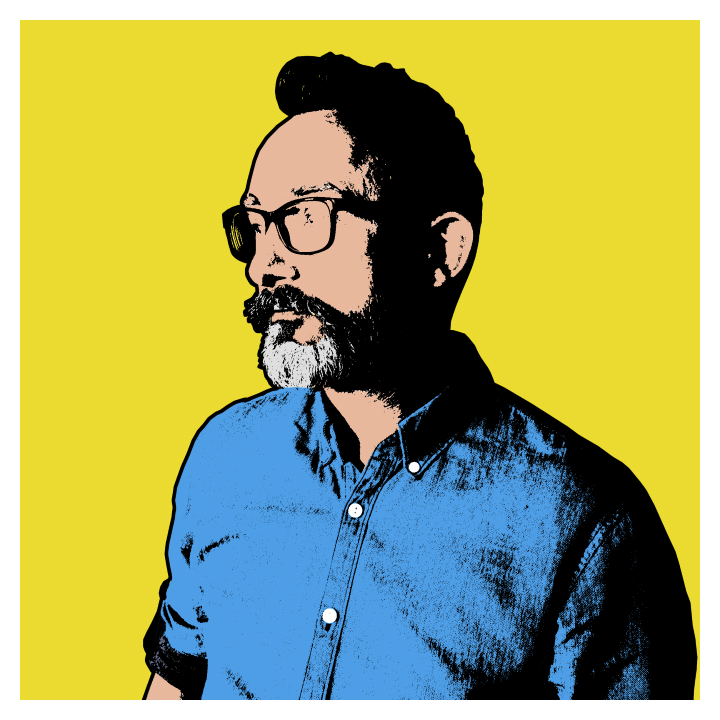
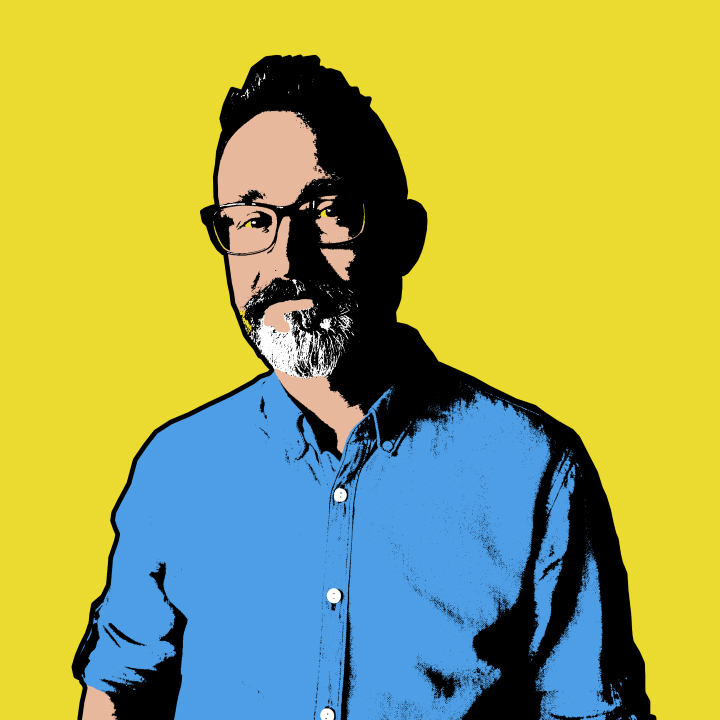
Updated hero images.

diff --git a/index.html b/index.html
@@ -47,8 +47,8 @@
                 <a class="nav-link" href="work.html">Work.</a>
               </li>
             </ul>
-            <div class="col-sm-6 col-md-6 col-lg-4 hero-image">
-              <img src="img/hero/hero-img-1.jpg" alt="Illustration of Steven Dow" class="img-fluid">
+            <div class="col-sm-6 col-md-6 col-lg-4 padding-bottom">
+              <img src="img/hero/hero-img-1.jpg" alt="Illustration of Steven Dow" class="img-fluid hero-image">
             </div>
           </div>
         </div>
@@ -85,12 +85,23 @@
               <img src="img/hero/hero-img-1.jpg" alt="portrait 3" class="img-fluid ">
             </div>
           </div>
+<<<<<<< Updated upstream
+=======
+<<<<<<< HEAD
+          <div class="card">
+            <img src="img/hero/hero-img-3.jpg" alt="portrait 3" class="img-fluid ">
+=======
+>>>>>>> Stashed changes
           <div class="row justify-content-end">
             <div class="col col-sm-9 col-md-8 col-lg-6">
               <p>
                 I make sure my concepts and design solutions are well thought through, and based on thorough research. I'm a good listener, and I'm strong at aligning with stakeholders.
               </p>
             </div>
+<<<<<<< Updated upstream
+=======
+>>>>>>> 6542ae0a9f723cb4078d75b2d4030f03edc8b2c3
+>>>>>>> Stashed changes
           </div>
         </div>
       </section>
@@ -192,6 +203,12 @@
             </div>
             <div class="col-6 col-md-4 col-lg-3">
               <img src="img/featured-awards/featured-awards-4.jpg" alt="featured logo 2" class="img-fluid py-3" >
+<<<<<<< Updated upstream
+=======
+            </div>
+            <div class="col-6 col-md-4 col-lg-3">
+              <img src="img/featured-awards/featured-awards-5.jpg" alt="featured logo 3" class="img-fluid py-3">
+>>>>>>> Stashed changes
             </div>
             <div class="col-6 col-md-4 col-lg-3">
               <img src="img/featured-awards/featured-awards-5.jpg" alt="featured logo 3" class="img-fluid py-3">
@@ -251,6 +268,62 @@
             </ul>
           </div>
         </div>
+<<<<<<< Updated upstream
+=======
+      </section>  
+      
+      <!-- Footer -->
+      <footer class="py-5">
+        <div class="container">
+          <div class=" row">
+            <h2 class="pb-3 display-4 font-weight-bold col-md-4">
+              Say<br>hello
+              <span class="text-red">.</span>
+            </h2>  
+            <ul class="col-md-4">
+              <li>
+                <a href="mailto: thefamousunknown@gmail.com?subject=Nice website&body=Hi Steven, Let's grab a coffee.">info@stevendow.nl</a>
+                <span class="sr-only">Opens mail application</span>
+              </li>
+              <li>
+                <a href="#">+31 (0)6 462 405 20</a>
+              </li>
+              <li>
+                <p>
+                  Waldenlaan 98<br>1093NH Amsterdam
+                </p>
+              </li>
+            </ul>
+            <ul class="col-md-4">
+              <li>
+                <a href="https://www.linkedin.com/in/stevendow/" target="_blank">LinkedIn</a>
+                <span class="sr-only">Opens in new window</span>
+              </li>
+              <li>
+                <a href="https://github.com/wodnevets/" target="_blank">Github</a>
+                <span class="sr-only">Opens in new window</span>
+              </li>
+              <li>
+                <a href="https://codepen.io/wodnevets" target="_blank">Codepen</a>
+                <span class="sr-only">Opens in new window</span>
+              </li>
+              <li>
+                <a href="https://dribbble.com/WodNevets" target="_blank">Dribbble</a>
+                <span class="sr-only">Opens in new window</span>
+              </li>
+              <li>
+                <div class="font-weight-light">
+                  <p class="footer-text">
+                    &copy;2020 Steven A. R. Dow <br>Made with love and coffee. View
+                    <a href="https://github.com/stevandow/stevendow-new-portfolio" target="_blank" class="footer-text">source.</a>
+                    <span class="sr-only"></span>Opens in new window</span>
+                  </p>
+                </div> 
+              </li>
+            </ul>
+          </div>
+        </div>
+>>>>>>> Stashed changes
       </footer>
     </main>
     

diff --git a/work.html b/work.html
@@ -28,11 +28,6 @@
     <header class="background-blue">
       <nav class="navbar">
         <a class="navbar-brand mx-auto" href="index.html"><img src="img/logo.svg" alt="Logo of Steven Dow"></a>
-        <!-- <a onclick="myFunction()" href="#"> -->
-          <!-- <svg width="2rem" height="2em" viewBox="0 0 16 16" class="bi bi-moon" fill="currentColor" xmlns="http://www.w3.org/2000/svg">
-            <path fill-rule="evenodd" d="M14.53 10.53a7 7 0 0 1-9.058-9.058A7.003 7.003 0 0 0 8 15a7.002 7.002 0 0 0 6.53-4.47z"/>
-          </svg> -->
-        <!-- </a> -->
       </nav>
       <!-- hero section -->
       <section class="work py-5">
@@ -49,8 +44,8 @@
               <a class="nav-link active" href="#">Work<span class="text-blue">.</span></a>
             </li>
           </ul>
-          <div class="col-sm-6 col-md-6 col-lg-4 hero-image">
-            <img src="img/hero/hero-img-1.jpg" alt="Illustration of Steven Dow" class="img-fluid">
+          <div class="col-sm-6 col-md-6 col-lg-4 padding-bottom">
+            <img src="img/hero/hero-img-3.jpg" alt="Illustration of Steven Dow" class="img-fluid hero-image">
           </div>
         </div>
         </div>

diff --git a/styles.css b/styles.css
@@ -198,8 +198,12 @@ svg:hover {
 	background-color: #499CE9;
 }
 
-.hero-image {
+.padding-bottom {
 	padding-bottom: 2.5rem;
+}
+
+.hero-image {
+	border: 10px solid #ffffff;
 }
 
 .margin-0 {
@@ -306,7 +310,7 @@ footer ul {
 
 /* // Small devices (landscape phones, 576px and up) */
 @media (min-width: 375px) {
-	.hero-image {
+	.padding-bottom {
 		padding-bottom: 3.5rem;
 	}
 	.hero, .what, .work {
@@ -315,7 +319,7 @@ footer ul {
 }
 
 @media (min-width: 414px) {
-	.hero-image {
+	.padding-bottom {
 		padding-bottom: 4rem;
 	}
 	.hero, .what, .work {
@@ -325,7 +329,7 @@ footer ul {
 
 /* // Medium devices (tablets, 768px and up) */
 @media (min-width: 768px) {
-	.hero-image {
+	.padding-bottom {
 		padding-bottom: 9rem;
 	}
 	.hero, .what, .work {

diff --git a/what.html b/what.html
@@ -49,8 +49,8 @@
               <a class="nav-link" href="work.html">Work.</a>
             </li>
           </ul>
-          <div class="col-sm-6 col-md-6 col-lg-4 hero-image">
-            <img src="img/hero/hero-img-2.jpg" alt="Illustration of Steven Dow" class="img-fluid">
+          <div class="col-sm-6 col-md-6 col-lg-4 padding-bottom">
+            <img src="img/hero/hero-img-2.jpg" alt="Illustration of Steven Dow" class="img-fluid hero-image">
           </div>
         </div>
         </div>
